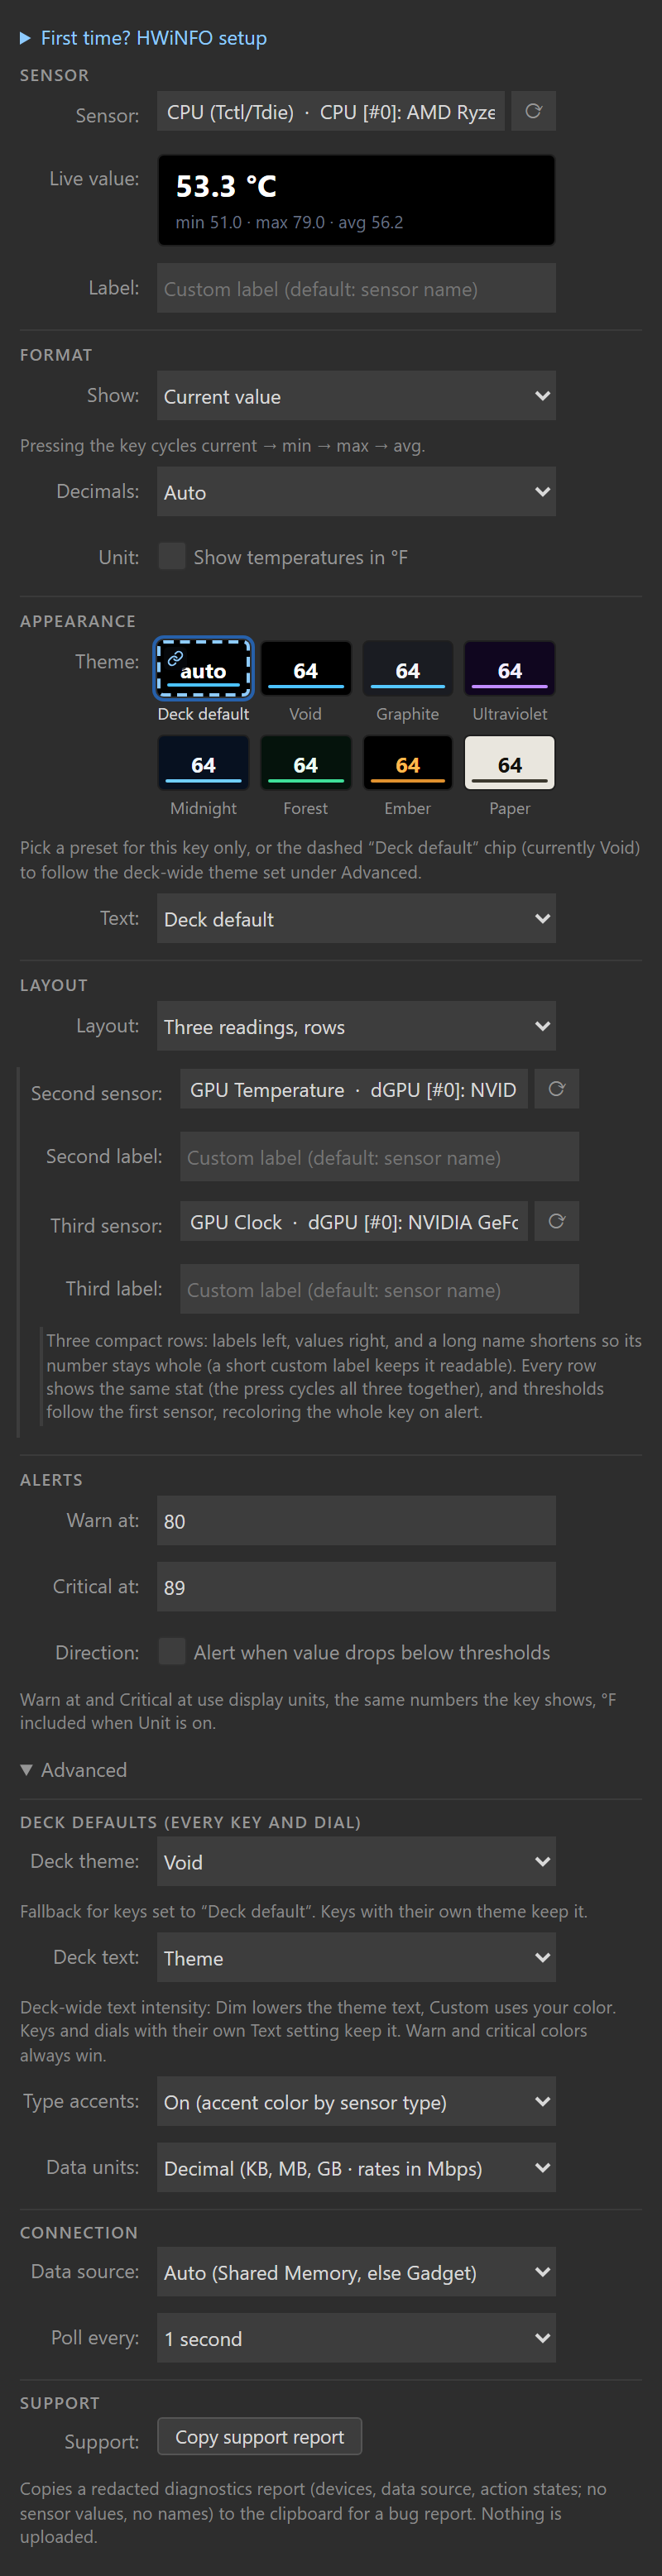
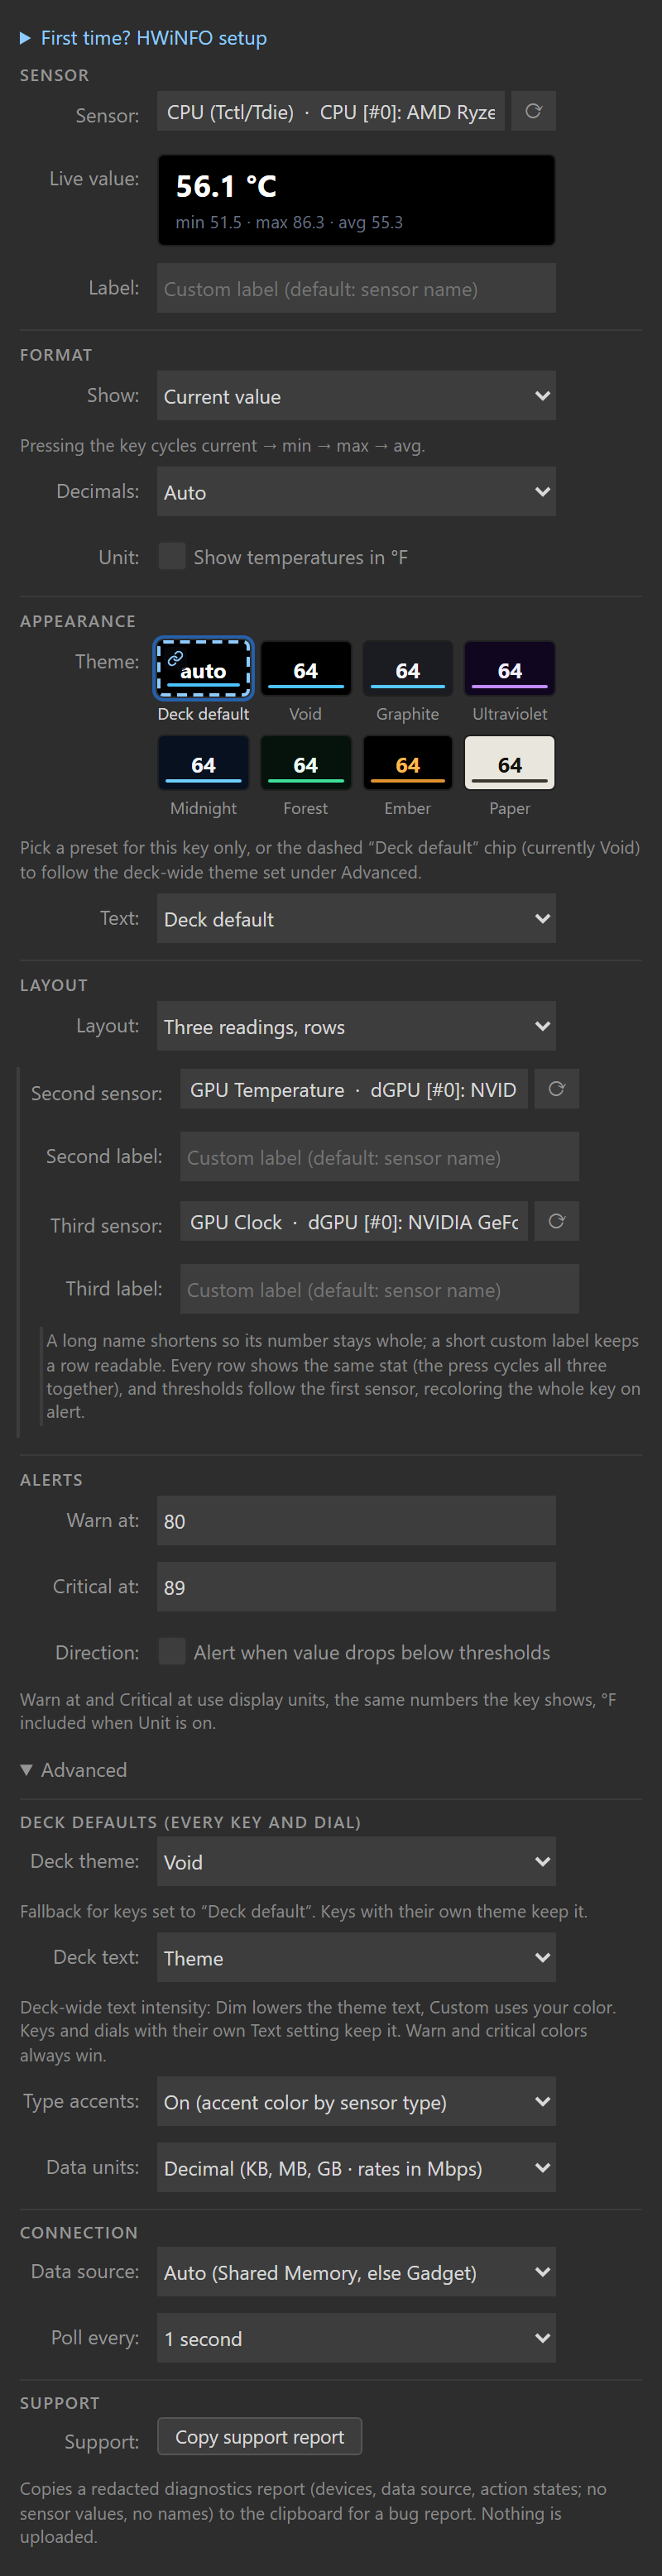
refactor: strip what the adaptive-labels change didn't need
An adversarial minimality pass over a4d2c7c; renderer output is
byte-identical (the goldens prove it).

Source: drop fitTextLadder's unused uppercase option and the
production-dead FittedText.estimatedWidth (the ellipsis path now
returns its winning candidate directly), fold the no-op ellipsis
branch into the estimator's default with its rationale, straighten
the minLabelSize null check, and shrink comments that restated a
neighbor. The unsupported-SVG-feature scan and negative-width check
move into density.test.ts's assertRenderable, where CI enforces them
over every renderer instead of only when someone hand-runs the proof
script.

Tests: cut the pure-function determinism tautology, the ladder
deepEqual change-detector (the policy loop over KEY_TEXT_LADDERS
stays), and two cases whose facts siblings already pin.

Scripts: issue3-proof loses its duplicate structural gate, the
per-face PNG dump, five faces that render as near-twins of kept ones,
and the '.' outDir fallback that would litter the repo root; the
deck sim now shows the CJK face instead of a duplicate warn face.
capture-pi unrolls a leftover single-item loop and its header counts
fifteen states again.

Copy: adaptive sizing moves from the README Layout row to the Label
row it describes, the docs stop restating the size ladder in three
places, and the triple PI help leads with the one fact the panel
cannot show.

Changed region(s): [[0.0625, 0.4984, 0.9062, 0.5607], [0.2812, 0.0623, 0.3125, 0.0934]]

diff --git a/src/ui/format.ts b/src/ui/format.ts
@@ -267,11 +267,6 @@ function keyGlyphWidth12(ch: string): number {
 	if (ch === " ") {
 		return 3.4;
 	}
-	if (ch === "…") {
-		// The label ellipsis' real advance (the footer budgets its own 10):
-		// overpricing the ellipsis retreats fits one character too far.
-		return 7;
-	}
 	if (isWideGlyph(ch.codePointAt(0) as number)) {
 		return 12;
 	}
@@ -293,6 +288,8 @@ function keyGlyphWidth12(ch: string): number {
 	if (ch >= "a" && ch <= "z") {
 		return 6.1;
 	}
+	// Also the label ellipsis' real advance (the footer budgets its own 10;
+	// overpricing the ellipsis retreats a floor fit one character too far).
 	return 7;
 }
 
@@ -305,8 +302,6 @@ export type TextFitOptions = {
 	fontWeight?: 600 | 700;
 	/** SVG letter-spacing in px, applied per inter-glyph gap at every size. */
 	letterSpacing?: number;
-	/** Estimate (and return) the uppercased text, for micro-label callers. */
-	uppercase?: boolean;
 	/** Extra px the fit must leave unused, on top of the caller's budget. */
 	minimumSlack?: number;
 };
@@ -331,12 +326,10 @@ export function estimateKeyTextWidth(text: string, fontSize: number, options?: T
 	return width + Math.max(0, count - 1) * (options?.letterSpacing ?? 0);
 }
 
-/** One fitted string: what to draw, at what size, and the width the fit
- * budgeted for it (so callers can lay out neighbors deterministically). */
+/** One fitted string: what to draw, at what size. */
 export type FittedText = {
 	text: string;
 	fontSize: number;
-	estimatedWidth: number;
 };
 
 /**
@@ -347,29 +340,24 @@ export type FittedText = {
  * deterministic: same text, budget and ladder always fit identically.
  */
 export function fitTextLadder(text: string, maxWidth: number, sizes: readonly number[], options?: TextFitOptions): FittedText {
-	const display = options?.uppercase === true ? text.toUpperCase() : text;
-	if (display === "") {
-		return { text: "", fontSize: sizes[0] as number, estimatedWidth: 0 };
+	if (text === "") {
+		return { text: "", fontSize: sizes[0] as number };
 	}
 	const budget = maxWidth - (options?.minimumSlack ?? 0);
 	const floor = sizes[sizes.length - 1] as number;
 	for (const size of sizes) {
-		const width = estimateKeyTextWidth(display, size, options);
-		if (width <= budget) {
-			return { text: display, fontSize: size, estimatedWidth: width };
+		if (estimateKeyTextWidth(text, size, options) <= budget) {
+			return { text, fontSize: size };
 		}
 	}
-	const chars = Array.from(display);
-	let kept = 0;
+	const chars = Array.from(text);
 	for (let i = chars.length - 1; i > 0; i--) {
 		const candidate = `${chars.slice(0, i).join("").trimEnd()}…`;
 		if (estimateKeyTextWidth(candidate, floor, options) <= budget) {
-			kept = i;
-			break;
+			return { text: candidate, fontSize: floor };
 		}
 	}
-	const fitted = kept === 0 ? "…" : `${chars.slice(0, kept).join("").trimEnd()}…`;
-	return { text: fitted, fontSize: floor, estimatedWidth: estimateKeyTextWidth(fitted, floor, options) };
+	return { text: "…", fontSize: floor };
 }
 
 /**

diff --git a/test/key-renderer.test.ts b/test/key-renderer.test.ts
@@ -115,13 +115,6 @@ describe("label fitting and badge collision", () => {
 		assert.match(render({ label: "Core Max", statBadge: "MAX" }), /<text x="12" y="32" text-anchor="start" [^>]*font-size="16"[^>]*>Core Max</);
 	});
 
-	it("a CJK label is estimated at a full em per glyph and steps down instead of overflowing", () => {
-		// 8 fullwidth glyphs estimate 96px at 12px (roughly their true run),
-		// so the fit lands at 14px whole instead of the 20px top that would
-		// clip both canvas edges.
-		const svg = render({ label: "電力消費量テスト" });
-		assert.match(svg, /<text x="72" y="32" [^>]*font-size="14"[^>]*>電力消費量テスト</);
-	});
 
 	it("past the 14px floor the label ellipsizes at the widest fitting prefix", () => {
 		const svg = render({ label: "Virtual Memory Committed" });
@@ -847,7 +840,6 @@ function renderTriple(overrides: Partial<TripleKeyOptions> = {}): string {
 describe("triple layout geometry (three 48px bands, separators at y=47/95)", () => {
 	it("value chunks end-anchored at x=132 on band-center baselines 30/78/126, one shared size", () => {
 		const svg = renderTriple();
-		assert.equal(tripleValueFontSize([tripleRowFixture()]), 18);
 		for (const [y, value] of [
 			[30, "35.9"],
 			[78, "37.3"],
@@ -959,11 +951,6 @@ describe("triple layout geometry (three 48px bands, separators at y=47/95)", () 
 		assert.doesNotMatch(svg, /<rect x="12" y="95"/);
 	});
 
-	it("a missing row renders the placeholder glyph with no unit", () => {
-		const svg = renderTriple({ rows: [tripleRowFixture(), tripleRowFixture({ label: "Gone", valueText: "—", unitText: "" }), null] });
-		assert.match(svg, /<text x="132" y="78" text-anchor="end" [^>]*>—<\/text>/);
-	});
-
 	it("unit omitted when empty", () => {
 		const svg = renderTriple({ rows: [tripleRowFixture({ unitText: "" }), tripleRowFixture({ unitText: "" }), null] });
 		assert.doesNotMatch(svg, /tspan/);
@@ -1040,15 +1027,6 @@ describe("adaptive ladder policy (the real renderer arrays, not copies)", () => 
 		}
 	});
 
-	it("the ladders read exactly as documented", () => {
-		assert.deepEqual(KEY_TEXT_LADDERS.singleLabel, [20, 18, 16, 14]);
-		assert.deepEqual(KEY_TEXT_LADDERS.singleLabelWithBadge, [18, 16, 14]);
-		assert.deepEqual(KEY_TEXT_LADDERS.dualLabelTop, [15, 14]);
-		assert.deepEqual(KEY_TEXT_LADDERS.dualLabel, [16, 15, 14]);
-		assert.deepEqual(KEY_TEXT_LADDERS.tripleValue, [18, 16, 14]);
-		assert.deepEqual(KEY_TEXT_LADDERS.tripleLabel, [16, 15, 14, 13, 12]);
-		assert.deepEqual(KEY_TEXT_LADDERS.quadMicroLabel, [14, 12]);
-	});
 });
 
 describe("triple hardening", () => {

diff --git a/test/measure.test.ts b/test/measure.test.ts
@@ -310,16 +310,12 @@ describe("estimateKeyTextWidth (the key faces' glyph-class estimator)", () => {
 		assert.equal(estimateKeyTextWidth("°", 12), 7);
 	});
 
-	it("East Asian wide glyphs cost a full em: never less than the font size", () => {
+	it("East Asian wide glyphs cost a full em", () => {
 		// A 7px default here undercounts fullwidth glyphs by ~40% and lets a
 		// CJK sensor name overflow the face at the ladder's top size.
 		for (const glyph of ["水", "電", "テ", "한", "！", "😀"]) {
 			assert.equal(estimateKeyTextWidth(glyph, 12), 12, glyph);
-			assert.ok(estimateKeyTextWidth(glyph, 16) >= 16, glyph);
 		}
-		// An 8-glyph CJK label estimates at least 8 em: the single ladder must
-		// land at 14, not its 20px top.
-		assert.ok(estimateKeyTextWidth("電力消費量テスト", 12) >= 96);
 	});
 
 	it("weight 700 runs a flat few percent wider; letter-spacing adds per gap", () => {
@@ -334,7 +330,7 @@ describe("fitTextLadder (largest safe size, ellipsis only at the floor)", () => 
 	const SIZES = [20, 18, 16, 14] as const;
 
 	it("keeps a short string whole at the top of the ladder", () => {
-		assert.deepEqual(fitTextLadder("CCD1", 120, SIZES), { text: "CCD1", fontSize: 20, estimatedWidth: estimateKeyTextWidth("CCD1", 20) });
+		assert.deepEqual(fitTextLadder("CCD1", 120, SIZES), { text: "CCD1", fontSize: 20 });
 	});
 
 	it("steps down to the first size that fits, keeping the whole string", () => {
@@ -347,7 +343,7 @@ describe("fitTextLadder (largest safe size, ellipsis only at the floor)", () => 
 		const fit = fitTextLadder("Virtual Memory Committed", 116, SIZES);
 		assert.equal(fit.text, "Virtual Memory…");
 		assert.equal(fit.fontSize, 14);
-		assert.ok(fit.estimatedWidth <= 116);
+		assert.ok(estimateKeyTextWidth(fit.text, fit.fontSize) <= 116);
 	});
 
 	it("operates on code points: never splits a surrogate pair", () => {
@@ -357,7 +353,7 @@ describe("fitTextLadder (largest safe size, ellipsis only at the floor)", () => 
 	});
 
 	it("empty text stays empty at the ladder top, never a bare ellipsis", () => {
-		assert.deepEqual(fitTextLadder("", 120, SIZES), { text: "", fontSize: 20, estimatedWidth: 0 });
+		assert.deepEqual(fitTextLadder("", 120, SIZES), { text: "", fontSize: 20 });
 	});
 
 	it("an impossibly small budget still returns a deterministic ellipsis", () => {
@@ -366,17 +362,10 @@ describe("fitTextLadder (largest safe size, ellipsis only at the floor)", () => 
 		assert.equal(fit.fontSize, 14);
 	});
 
-	it("minimumSlack tightens the budget; uppercase transforms before measuring", () => {
+	it("minimumSlack tightens the budget", () => {
 		const loose = fitTextLadder("Core Max", 70, SIZES);
 		const tight = fitTextLadder("Core Max", 70, SIZES, { minimumSlack: 20 });
 		assert.ok(tight.fontSize < loose.fontSize);
-		assert.equal(fitTextLadder("pack", 120, SIZES, { uppercase: true }).text, "PACK");
-	});
-
-	it("is deterministic: identical inputs produce identical fits", () => {
-		for (const label of ["CCD1", "GPU Hot Spot", "Virtual Memory Committed", "電力"]) {
-			assert.deepEqual(fitTextLadder(label, 96, SIZES), fitTextLadder(label, 96, SIZES));
-		}
 	});
 
 	it("the ellipsis is budgeted at its real label advance, not the footer's", () => {

diff --git a/com.lawrensen.hwinfo.sdPlugin/ui/pi-common.js b/com.lawrensen.hwinfo.sdPlugin/ui/pi-common.js
@@ -707,14 +707,13 @@
 		const displayItemEl = document.getElementById("display-item");
 		// quadLabel3 doubles as the triple's third-row label: full length
 		// there, first 4 characters in the quad grid. Swap the placeholder
-		// with the mode (display only, never a settings write). The sdpi
-		// textfield can't be driven through its own placeholder property
-		// (it wants a localized-message object; a plain string throws inside
-		// its update cycle and wedges the whole panel) and its attribute
-		// observer never repaints a changed value, so write the rendered
-		// input directly; the 400 ms layout poll re-asserts it if the
-		// component re-renders over it. The host attribute is kept in sync
-		// so the markup stays truthful.
+		// with the mode. The sdpi textfield can't be driven through its own
+		// placeholder property (it wants a localized-message object; a plain
+		// string throws inside its update cycle and wedges the whole panel)
+		// and its attribute observer never repaints a changed value, so
+		// write the rendered input directly; the 400 ms layout poll
+		// re-asserts it if the component re-renders over it. The host
+		// attribute is kept in sync so the markup stays truthful.
 		const thirdLabelHint = (quad) => {
 			if (thirdLabelEl === null) return;
 			const hint = quad ? "Short name; 4 characters show" : "Custom label (default: sensor name)";

diff --git a/test/density.test.ts b/test/density.test.ts
@@ -46,10 +46,17 @@ function assertRenderable(svg: string, canvasW: number, canvasH: number, what: s
 		assert.ok(!svg.includes(poison), `${what}: contains ${poison}`);
 	}
 	assert.doesNotThrow(() => encodeURIComponent(svg), `${what}: not URI-encodable`);
-	// Every drawn x coordinate stays inside the canvas.
+	// SVG features the Stream Deck engine is not proven to honor.
+	for (const feature of ["clipPath", "dominant-baseline", "<style", "<filter", "<mask", "textLength"]) {
+		assert.ok(!svg.includes(feature), `${what}: unsupported SVG feature ${feature}`);
+	}
+	// Every drawn x coordinate stays inside the canvas; no negative extents.
 	for (const match of svg.matchAll(/ x="(-?[\d.]+)"/g)) {
 		const x = Number(match[1]);
 		assert.ok(x >= 0 && x <= canvasW, `${what}: x=${x} outside canvas`);
+	}
+	for (const match of svg.matchAll(/ width="(-?[\d.]+)"/g)) {
+		assert.ok(Number(match[1]) >= 0, `${what}: negative width ${match[1]}`);
 	}
 	// Legibility floor: nothing below 12px logical (6px at the 0.5x target)
 	// and no stroke under 3px (1.5px at 0.5x).

diff --git a/src/ui/key-renderer.ts b/src/ui/key-renderer.ts
@@ -508,9 +508,8 @@ export function renderTripleKey(opts: TripleKeyOptions): string {
 	});
 	const valueSize = tripleValueFontSize(rows);
 	// Fit every label first: the face-wide spread cap needs the smallest
-	// fitted peer before anything draws. A row whose chunk leaves no
-	// readable budget, or whose fit degenerates to a lone ellipsis, draws
-	// value-only (and doesn't drag the cap down).
+	// fitted peer before anything draws (a degenerate fit draws value-only
+	// and doesn't drag the cap down).
 	const fitted = rows.map((row) => {
 		if (row === null) {
 			return null;
@@ -523,7 +522,7 @@ export function renderTripleKey(opts: TripleKeyOptions): string {
 		const label = fitTextLadder(row.label, labelBudget, TRIPLE_LABEL_SIZES, { minimumSlack: 2 });
 		return { chunkWidth, label: label.text === "" || label.text === "…" ? null : label };
 	});
-	const minLabelSize = Math.min(...fitted.map((f) => (f?.label !== null && f !== null ? f.label.fontSize : Number.POSITIVE_INFINITY)));
+	const minLabelSize = Math.min(...fitted.map((f) => (f !== null && f.label !== null ? f.label.fontSize : Number.POSITIVE_INFINITY)));
 	const parts: string[] = svgOpen(144, 144, palette.bg);
 	rows.forEach((row, i) => {
 		if (row === null) {

diff --git a/src/actions/sensor-reading.ts b/src/actions/sensor-reading.ts
@@ -277,10 +277,7 @@ function compose(state: InstanceState, status: PollerStatus): string {
 			return composeQuad(settings, snapshot, slotKeys);
 		}
 	}
-	// The triple rows follow the quad's gate: the exact "triple" marker plus
-	// at least two resolvable slots (an unconfigured slot renders an empty
-	// band). With only the primary left, the marker degrades onto the
-	// unchanged single path, exactly like dual and quad.
+	// Same gate as the quad above, over its first three slots.
 	if (settings.keyLayout === "triple") {
 		const slotKeys = [primaryKey, secondaryKey, nonEmptyStringOf(settings.quadReadingKey3)];
 		if (slotKeys.filter((k) => k !== undefined).length >= 2) {

diff --git a/com.lawrensen.hwinfo.sdPlugin/ui/sensor-reading.html b/com.lawrensen.hwinfo.sdPlugin/ui/sensor-reading.html
@@ -139,7 +139,7 @@
 			<sdpi-item label="Third label">
 				<sdpi-textfield id="third-label" setting="quadLabel3" placeholder="Short name; 4 characters show"></sdpi-textfield>
 			</sdpi-item>
-			<div id="triple-help" class="hw-help hw-cond" hidden>Three compact rows: labels left, values right, and a long name shortens so its number stays whole (a short custom label keeps it readable). Every row shows the same stat (the press cycles all three together), and thresholds follow the first sensor, recoloring the whole key on alert.</div>
+			<div id="triple-help" class="hw-help hw-cond" hidden>A long name shortens so its number stays whole; a short custom label keeps a row readable. Every row shows the same stat (the press cycles all three together), and thresholds follow the first sensor, recoloring the whole key on alert.</div>
 		</div>
 		<div id="quad-rows" class="hw-cond" hidden>
 			<sdpi-item label="Fourth sensor">

diff --git a/docs/sensor-reading.md b/docs/sensor-reading.md
@@ -3,7 +3,7 @@ title: Sensor Reading (keys)
 nav_order: 4
 ---
 
-The **Sensor Reading** action puts a live HWiNFO reading on a Stream Deck key: a value, its unit, a custom label, an optional [sparkline, bar, or ring display](#display-sparkline-bar-ring), and warn/critical coloring. A key can also [stack two readings](#layout-two-readings-on-one-key) as two compact rows, show [three readings as rows](#layout-three-readings-rows) with labels left and values right, or show [four readings in a quad grid](#layout-four-readings-the-quad-grid). Drag **HWiNFO Sensors → Sensor Reading** onto a key and pick a sensor to start.
+The **Sensor Reading** action puts a live HWiNFO reading on a Stream Deck key: a value, its unit, a custom label, an optional [sparkline, bar, or ring display](#display-sparkline-bar-ring), and warn/critical coloring. A key can also [stack two readings](#layout-two-readings-on-one-key) as two compact rows, show [three readings as rows](#layout-three-readings-rows), or show [four readings in a quad grid](#layout-four-readings-the-quad-grid). Drag **HWiNFO Sensors → Sensor Reading** onto a key and pick a sensor to start.
 
 This page documents every setting in the key's settings panel. For the Stream Deck + dial, see [Sensor Dial](sensor-dial.md).
 
@@ -23,7 +23,7 @@ The **Live value** row directly below the picker mirrors the current reading (an
 
 ### Label
 
-Custom text for the key. Leave it blank to use the sensor's own (HWiNFO-renamed) label. Labels size themselves to the key automatically: a short name like `CCD1` renders large, a longer one steps down through smaller sizes, and only a name too wide for the smallest size is truncated with an ellipsis. A stat badge (MIN/MAX/AVG) sharing the top row shortens the label's room but never collides with it.
+Custom text for the key. Leave it blank to use the sensor's own (HWiNFO-renamed) label. Labels size themselves to the key: a short name like `CCD1` renders large, a longer one steps down through smaller sizes, and only a name too wide for the smallest size is truncated with an ellipsis. A stat badge (MIN/MAX/AVG) sharing the top row shortens the label's room but never collides with it.
 
 ### Theme
 
@@ -82,16 +82,16 @@ What carries over, and what stays with the first reading:
 - **Warn at / Critical at** watch the **first** reading only, and an alert recolors the whole key exactly like the single layout. There are no per-row thresholds; put the reading you want alerts on first (or use two keys).
 - The sensor-type accent (badge color) follows the first reading.
 - The **Display strip is a single-layout feature**: the second row takes its space, so the Display row hides while the layout is dual (the setting is kept for when you switch back).
-- Row labels size themselves like the single layout's: short names render a step larger, long names step down before truncating with an ellipsis. Badges never cost label space.
+- Row labels size themselves like the single layout's label. Badges never cost label space.
 - If one row's sensor drops out of HWiNFO's output, that row shows an em-dash placeholder while the other keeps updating; if both drop out, the key shows the usual **Sensor missing** screen.
 
 Switching back to **One reading** restores the exact single-layout face; the second reading's settings are remembered.
 
 ### Layout: three readings, rows
 
-**Layout → Three readings, rows** shows three compact horizontal rows: the label on the left, the value with its unit aligned on the right, separated by thin rules. It reads like a small table (CCD1, CCD2 and the core maximum of a 9950X3D fit on one key), where the stacked layout's two big values would not leave room for a third. The first row is the key's own sensor, the **Second sensor** and **Third sensor** pickers fill the other two, each with an optional label. The third slot is the same field the quad grid uses, so switching between three and four readings keeps every pick; a triple needs the first sensor plus at least one more, and an unpicked row stays empty.
+**Layout → Three readings, rows** shows three compact horizontal rows: the label on the left, the value with its unit aligned on the right, separated by thin rules. It reads like a small table (CCD1, CCD2 and the core maximum of a 9950X3D fit on one key). The first row is the key's own sensor, the **Second sensor** and **Third sensor** pickers fill the other two, each with an optional label. The third slot is the same field the quad grid uses, so switching between three and four readings keeps every pick; a triple needs the first sensor plus at least one more, and an unpicked row stays empty.
 
-Each row's label gets the space its own value leaves over: short names render larger, long names step down and then truncate with an ellipsis, and the value always wins the contest for room. Values keep one shared size per key so they read as a column.
+Each row's label gets the space its own value leaves over, sizing itself like the other layouts' labels. Values keep one shared size per key so they read as a column.
 
 ![The key's settings panel with Layout set to Three readings, rows: the Second and Third sensor pickers holding a GPU temperature and a GPU clock, their label fields, and the three-row help text below.]({{ '/assets/img/pi-key-triple.png' | relative_url }})
 

diff --git a/README.md b/README.md
@@ -81,11 +81,11 @@ the current value.
 | Setting | What it does |
 | --- | --- |
 | **Sensor** | Searchable picker over every reading HWiNFO publishes, with a live preview. |
-| **Label** | Custom key label; defaults to the sensor's (renamed) label. |
+| **Label** | Custom key label; defaults to the sensor's (renamed) label. Sizes itself to fit: short names render large, long names step down before they truncate. |
 | **Theme** | Preset gallery: this key only, or "Deck default" to follow the deck-wide theme. |
 | **Text** | Text intensity: deck default, theme, dim, or an exact custom color. |
 | **Show** | Current value, or HWiNFO's min / max / average since it started. |
-| **Layout** | One reading (default), two stacked readings with their own labels and stats, three compact rows with labels left and values right, or four in a 2x2 quad grid with per-cell colors or labels. Labels size themselves automatically: short names render large, long names step down before they truncate. |
+| **Layout** | One reading (default), two stacked readings with their own labels and stats, three compact rows with labels left and values right, or four in a 2x2 quad grid with per-cell colors or labels. |
 | **Decimals** | Auto (magnitude-based, compacts through k/M/G/T: 48 700 → `48.7k`) or fixed 0–3. Bytes and rates re-tier by the deck-wide **Data units** (decimal KB/MB/GB with Mbps rates, or binary KiB/MiB/GiB with MiB/s). |
 | **Unit** | Show temperatures in °F instead of °C. |
 | **Display** | Recent history as a sparkline, or the value in its range as a bar or ring, with amber/red threshold zones. |